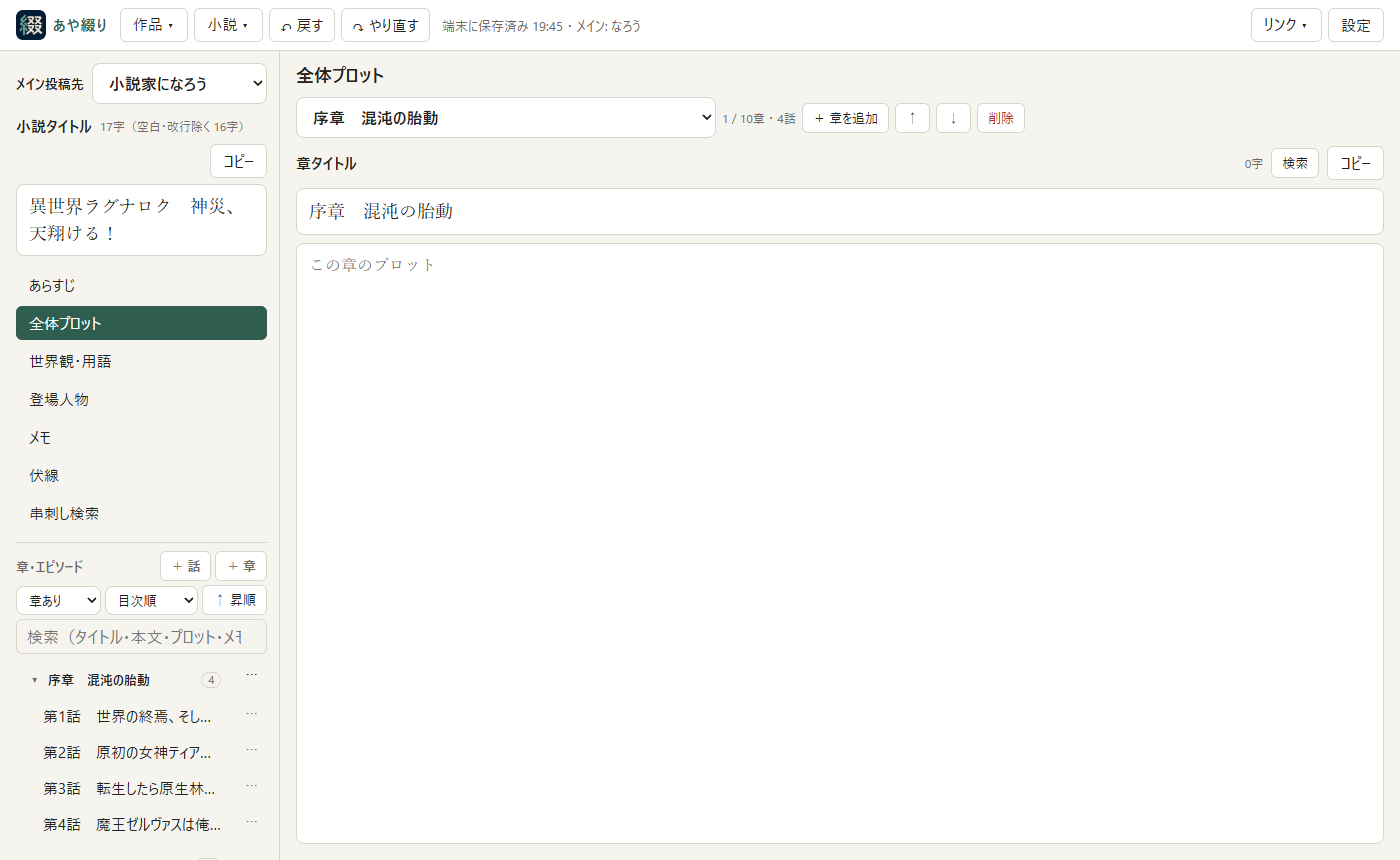
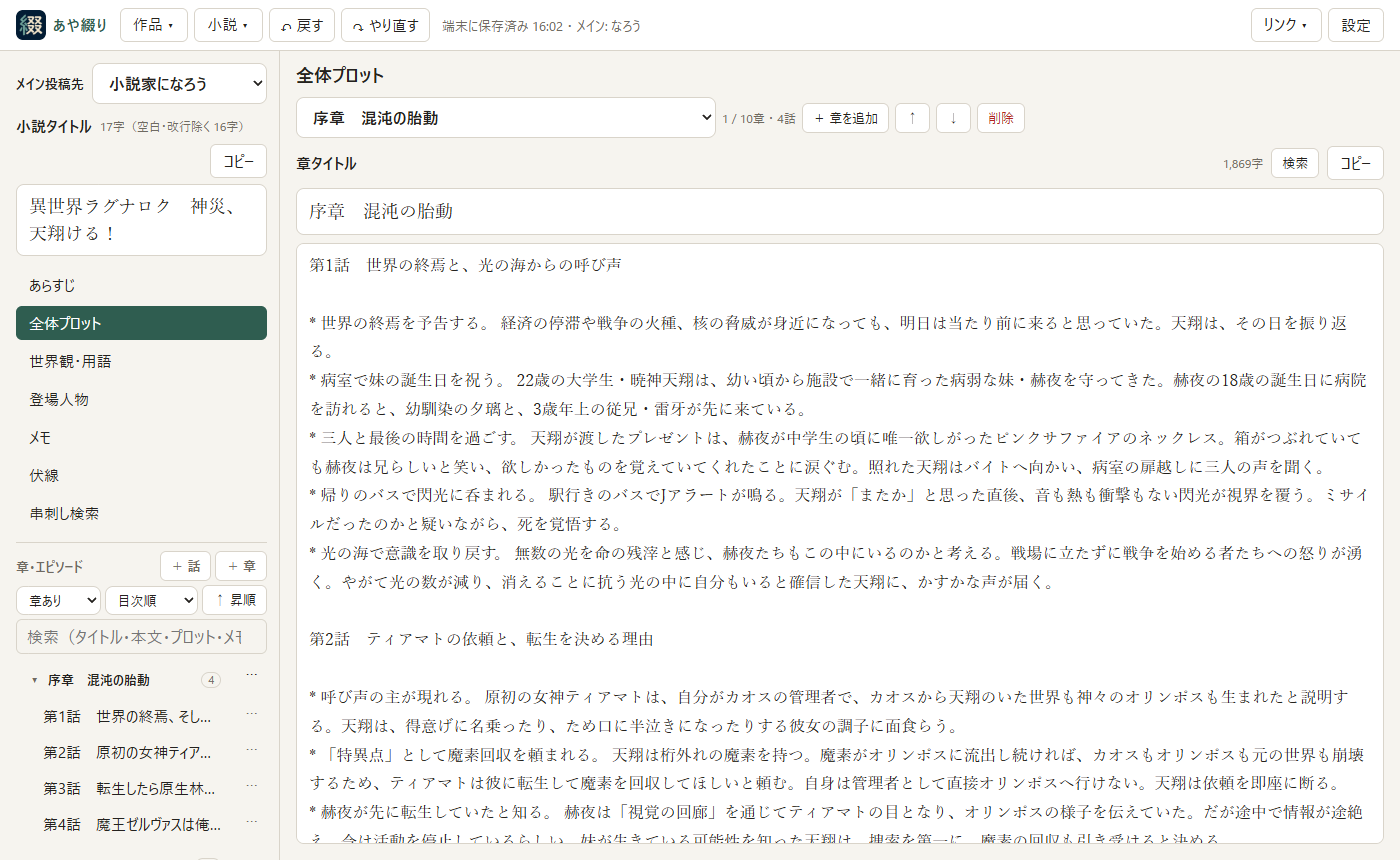
Add files via upload

diff --git a/js/app.js b/js/app.js
@@ -5954,8 +5954,19 @@ async function saveNow() {
 
 // ---------- 他のエピソードからプロット・フリーメモをコピー ----------
 
+// コピー元：ほかのエピソード、または全体プロットの、この話の章（値は "chapter:章のID"。章にはフリーメモがない：0.97）
+function episodeNotesSource(value) {
+  if (!project || !value) return null;
+  if (value.startsWith('chapter:')) {
+    const ch = project.chapters.find((c) => c.id === value.slice(8));
+    return ch ? { plot: ch.plot || '', freeMemo: '', chapter: true, name: `全体プロット「${chapterName(ch)}」` } : null;
+  }
+  const ep = project.episodes.find((e) => e.id === value);
+  return ep ? { plot: ep.plot || '', freeMemo: ep.freeMemo || '', chapter: false, name: `「${episodeName(ep)}」` } : null;
+}
+
 function updateEpisodeNotesCopyPreview() {
-  const source = project?.episodes.find((ep) => ep.id === $('episode-notes-copy-source').value);
+  const source = episodeNotesSource($('episode-notes-copy-source').value);
   const plot = $('episode-notes-copy-plot');
   const memo = $('episode-notes-copy-memo');
   const preview = $('episode-notes-copy-preview');
@@ -5970,7 +5981,7 @@ function updateEpisodeNotesCopyPreview() {
   if (memo.disabled) memo.checked = false;
   preview.textContent = [
     `プロット：${source.plot ? `${countChars(source.plot).all.toLocaleString()}字` : '（空）'}`,
-    `フリーメモ：${source.freeMemo ? `${countChars(source.freeMemo).all.toLocaleString()}字` : '（空）'}`,
+    `フリーメモ：${source.chapter ? '（章にはありません）' : source.freeMemo ? `${countChars(source.freeMemo).all.toLocaleString()}字` : '（空）'}`,
     '',
     source.plot ? `【プロット】\n${source.plot.slice(0, 500)}` : '',
     source.freeMemo ? `【フリーメモ】\n${source.freeMemo.slice(0, 500)}` : '',
@@ -5980,16 +5991,22 @@ function updateEpisodeNotesCopyPreview() {
 function openEpisodeNotesCopy() {
   const current = episode();
   const sources = project.episodes.filter((ep) => ep.id !== current.id && (ep.plot || ep.freeMemo));
-  if (!sources.length) {
-    toast('プロットまたはフリーメモが入っている、ほかのエピソードがありません', true);
+  // この話の章に、全体プロットで書いたプロットがあれば、いちばん上に出す（0.97）
+  const ch = current.chapterId ? project.chapters.find((c) => c.id === current.chapterId) : null;
+  const chapterPlot = ch && ch.plot ? ch : null;
+  if (!sources.length && !chapterPlot) {
+    toast('プロットまたはフリーメモが入っている、ほかのエピソードや章がありません', true);
     return;
   }
   const select = $('episode-notes-copy-source');
-  select.replaceChildren(...sources.map((ep) => {
-    const i = project.episodes.indexOf(ep);
-    const has = [ep.plot && 'プロット', ep.freeMemo && 'メモ'].filter(Boolean).join('・');
-    return new Option(`${i + 1}. ${episodeName(ep)}（${has}あり）`, ep.id);
-  }));
+  select.replaceChildren(
+    ...(chapterPlot ? [new Option(`【全体プロット】${chapterName(chapterPlot)}（この話の章）`, `chapter:${chapterPlot.id}`)] : []),
+    ...sources.map((ep) => {
+      const i = project.episodes.indexOf(ep);
+      const has = [ep.plot && 'プロット', ep.freeMemo && 'メモ'].filter(Boolean).join('・');
+      return new Option(`${i + 1}. ${episodeName(ep)}（${has}あり）`, ep.id);
+    }),
+  );
   $('episode-notes-copy-plot').checked = true;
   $('episode-notes-copy-memo').checked = true;
   updateEpisodeNotesCopyPreview();
@@ -5997,7 +6014,7 @@ function openEpisodeNotesCopy() {
 }
 
 async function copyEpisodeNotes() {
-  const source = project.episodes.find((ep) => ep.id === $('episode-notes-copy-source').value);
+  const source = episodeNotesSource($('episode-notes-copy-source').value);
   const dest = episode();
   const copyPlot = $('episode-notes-copy-plot').checked && !$('episode-notes-copy-plot').disabled;
   const copyMemo = $('episode-notes-copy-memo').checked && !$('episode-notes-copy-memo').disabled;
@@ -6006,13 +6023,13 @@ async function copyEpisodeNotes() {
     return;
   }
   const overwritten = [copyPlot && dest.plot && 'プロット', copyMemo && dest.freeMemo && 'フリーメモ'].filter(Boolean);
-  if (overwritten.length && !(await ask(`現在のエピソードの${overwritten.join('と')}を、\n「${episodeName(source)}」の内容で置き換えますか？`, { ok: '置き換えてコピー' }))) return;
+  if (overwritten.length && !(await ask(`現在のエピソードの${overwritten.join('と')}を、\n${source.name}の内容で置き換えますか？`, { ok: '置き換えてコピー' }))) return;
   if (copyPlot) dest.plot = source.plot;
   if (copyMemo) dest.freeMemo = source.freeMemo;
   touchEpisode(dest);
   changed();
   showEpisode();
-  toast(`「${episodeName(source)}」から${[copyPlot && 'プロット', copyMemo && 'フリーメモ'].filter(Boolean).join('と')}をコピーしました`);
+  toast(`${source.name}から${[copyPlot && 'プロット', copyMemo && 'フリーメモ'].filter(Boolean).join('と')}をコピーしました`);
 }
 
 const actions = {

diff --git a/docs/manual.html b/docs/manual.html
@@ -234,7 +234,7 @@
             <tr><td>伏線</td><td>その話で張った伏線と、回収の記録（<a href="#foreshadow">伏線</a>）。</td></tr>
           </tbody>
         </table>
-        <p>プロット・フリーメモ・伏線は、右の上のタブで切り替えます。プロットかフリーメモの「他の話から…」で、別のエピソードのプロット・フリーメモをコピーできます。</p>
+        <p>プロット・フリーメモ・伏線は、右の上のタブで切り替えます。プロットかフリーメモの「他の話から…」で、別のエピソードのプロット・フリーメモをコピーできます。その話の章に全体プロットで書いたプロットがあれば、コピー元の一覧のいちばん上に「【全体プロット】章の名前（この話の章）」と出て、章のプロットをこの話のプロットへコピーできます。</p>
         <h3>入力の手助け</h3>
         <table>
           <thead><tr><th>ボタン</th><th>働き</th></tr></thead>
@@ -355,7 +355,7 @@
         <h3>あらすじ・全体プロット</h3>
         <div class="pair">
           <figure><button type="button" data-zoom="images/manual/07_synopsis.png?v=20261119e" aria-label="あらすじを拡大"><img src="images/manual/07_synopsis.png?v=20261119e" alt="あらすじの画面" loading="lazy"></button><figcaption>図10　あらすじ</figcaption></figure>
-          <figure><button type="button" data-zoom="images/manual/08_outline.png?v=20261119e" aria-label="全体プロットを拡大"><img src="images/manual/08_outline.png?v=20261119e" alt="章ごとのプロットを書く全体プロットの画面" loading="lazy"></button><figcaption>図11　全体プロット</figcaption></figure>
+          <figure><button type="button" data-zoom="images/manual/08_outline.png?v=20261120d" aria-label="全体プロットを拡大"><img src="images/manual/08_outline.png?v=20261120d" alt="章ごとのプロットを書く全体プロットの画面" loading="lazy"></button><figcaption>図11　全体プロット</figcaption></figure>
         </div>
         <p>全体プロットの章は、目次の章と同じものです。全体プロットで、章のタイトルと章のプロットを書けます。</p>
         <h3>世界観・用語</h3>
@@ -722,7 +722,7 @@
           <dt>エピソードを別の章へ移したい</dt>
           <dd>そのエピソードの「⋯」で、移す先の章を選びます。</dd>
           <dt>別の話のプロットを使いたい</dt>
-          <dd>プロットかフリーメモの「他の話から…」で、コピー元の話と項目を選びます。</dd>
+          <dd>プロットかフリーメモの「他の話から…」で、コピー元の話と項目を選びます。全体プロットで書いた、その話の章のプロットも選べます。</dd>
           <dt>アルファポリスの文章をなろう用に貼りたい</dt>
           <dd>なろう用の本文にそのまま貼ります。ルビ・傍点はなろうの書き方に変わります。画像タグはそのまま残ります。</dd>
           <dt>今の稿を最終稿にして、ほかの稿を片付けたい</dt>

diff --git a/index.html b/index.html
@@ -309,7 +309,7 @@
               <span class="fold-info" id="fold-info-plot"></span>
               <span class="spacer"></span>
               <button type="button" class="tool" data-find="plot">検索</button>
-              <button type="button" class="tool" data-action="copy-episode-notes" data-copy-other="plot" title="ほかのエピソードからプロットやフリーメモをコピー">他の話から…</button>
+              <button type="button" class="tool" data-action="copy-episode-notes" data-copy-other="plot" title="ほかのエピソードや、全体プロットの章から、プロットやフリーメモをコピー">他の話から…</button>
               <button type="button" class="tool max-btn" data-max="plot" aria-label="プロットを最大化" title="最大化">⤢</button>
               <button type="button" class="tool selall-btn" data-selall="plot">全て選択</button>
               <button type="button" class="copy" data-copy="plot">コピー</button>
@@ -328,7 +328,7 @@
               <span class="fold-info" id="fold-info-memo"></span>
               <span class="spacer"></span>
               <button type="button" class="tool" data-find="free-memo">検索</button>
-              <button type="button" class="tool" data-action="copy-episode-notes" data-copy-other="free-memo" title="ほかのエピソードからプロットやフリーメモをコピー">他の話から…</button>
+              <button type="button" class="tool" data-action="copy-episode-notes" data-copy-other="free-memo" title="ほかのエピソードや、全体プロットの章から、プロットやフリーメモをコピー">他の話から…</button>
               <button type="button" class="tool max-btn" data-max="memo" aria-label="フリーメモを最大化" title="最大化">⤢</button>
               <button type="button" class="tool selall-btn" data-selall="free-memo">全て選択</button>
               <button type="button" class="copy" data-copy="free-memo">コピー</button>
@@ -379,8 +379,8 @@
 
     <dialog id="episode-notes-copy-dialog" class="wide-dialog" aria-labelledby="episode-notes-copy-title">
       <form method="dialog" class="dialog" id="episode-notes-copy-form">
-        <h2 id="episode-notes-copy-title">他のエピソードからコピー</h2>
-        <label class="stack">コピー元のエピソード
+        <h2 id="episode-notes-copy-title">他のエピソード・章からコピー</h2>
+        <label class="stack">コピー元（エピソード、または全体プロットの章）
           <select id="episode-notes-copy-source"></select>
         </label>
         <fieldset class="checks">

diff --git a/sw.js b/sw.js
@@ -1,6 +1,6 @@
 // オフラインでも起動できるよう、アプリ本体をキャッシュする。
 // ファイルを更新したら VERSION を上げる。
-const VERSION = 'v195';
+const VERSION = 'v196';
 const CACHE = 'novel-editor-' + VERSION;
 const SHELL = [
   './',

diff --git a/README.md b/README.md
@@ -1,8 +1,8 @@
 # あや<ruby>綴<rp>（</rp><rt>つづ</rt><rp>）</rp></ruby>り
 
 <p align="center">
-  <a href="docs/images/ayatuzuri-promotion.png">
-    <img src="docs/images/ayatuzuri-promotion.png" alt="あや綴り――PCはしっかり、スマホはすっきり。画面は自分仕様に。PCの詳細表示とスマホの簡易表示の画面" width="880">
+  <a href="docs/images/ayatuzuri-promotion-20261120.png">
+    <img src="docs/images/ayatuzuri-promotion-20261120.png" alt="あや綴り――PCはしっかり、スマホはすっきり。画面は自分仕様に。PCの詳細表示とスマホの簡易表示の画面" width="880">
   </a>
 </p>
 
